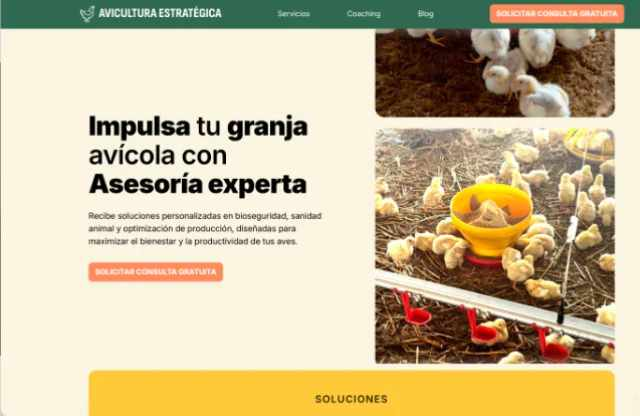
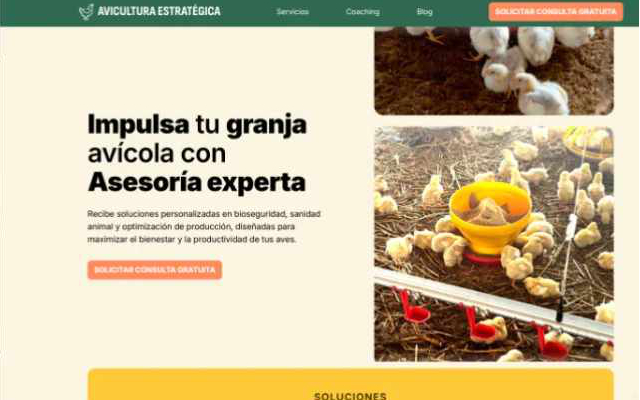
Increase founder portrait height 30% and unify blog navbar with home
- Increase .nos-img height from 620→806px (desktop) and 420→546px (mobile)
- Add missing nav links to blog: Nosotros, Precios, Contacto
- Add language toggle button to blog navbar
- Change blog CTA from "Cotizar Proyecto" to "Hablemos" to match home
- Update blog mobile nav with same link order as home

diff --git a/blog/index.html b/blog/index.html
@@ -32,9 +32,13 @@
       <ul class="nav-links">
         <li><a href="/#servicios">Servicios</a></li>
         <li><a href="/#portafolio">Portafolio</a></li>
+        <li><a href="/#nosotros">Nosotros</a></li>
+        <li><a href="/#precios">Precios</a></li>
+        <li><a href="/#contacto">Contacto</a></li>
         <li><a href="/blog/">Blog</a></li>
       </ul>
-      <a href="/#contacto" class="nav-cta">Cotizar Proyecto</a>
+      <button id="langToggle" class="lang-btn" onclick="toggleLang()">EN</button>
+      <a href="/#contacto" class="nav-cta">Hablemos</a>
       <div class="nav-ham" onclick="toggleNav()">
         <span></span>
         <span></span>
@@ -46,8 +50,10 @@
     <div id="mobileNav">
       <a href="/#servicios" onclick="closeNav()">Servicios</a>
       <a href="/#portafolio" onclick="closeNav()">Portafolio</a>
-      <a href="/blog/" onclick="closeNav()">Blog</a>
+      <a href="/#nosotros" onclick="closeNav()">Nosotros</a>
+      <a href="/#precios" onclick="closeNav()">Precios</a>
       <a href="/#contacto" onclick="closeNav()">Contacto</a>
+      <a href="/blog/" onclick="closeNav()">Blog</a>
     </div>
 
     <!-- Main Content Root -->

diff --git a/index.html b/index.html
@@ -1011,7 +1011,7 @@
 
     .nos-img {
       width: 100%;
-      height: 620px;
+      height: 806px;
       object-fit: cover;
       object-position: center top;
       display: block;
@@ -1862,7 +1862,7 @@
       }
 
       .nos-img {
-        height: 420px;
+        height: 546px;
       }
 
       .nos-quote {
